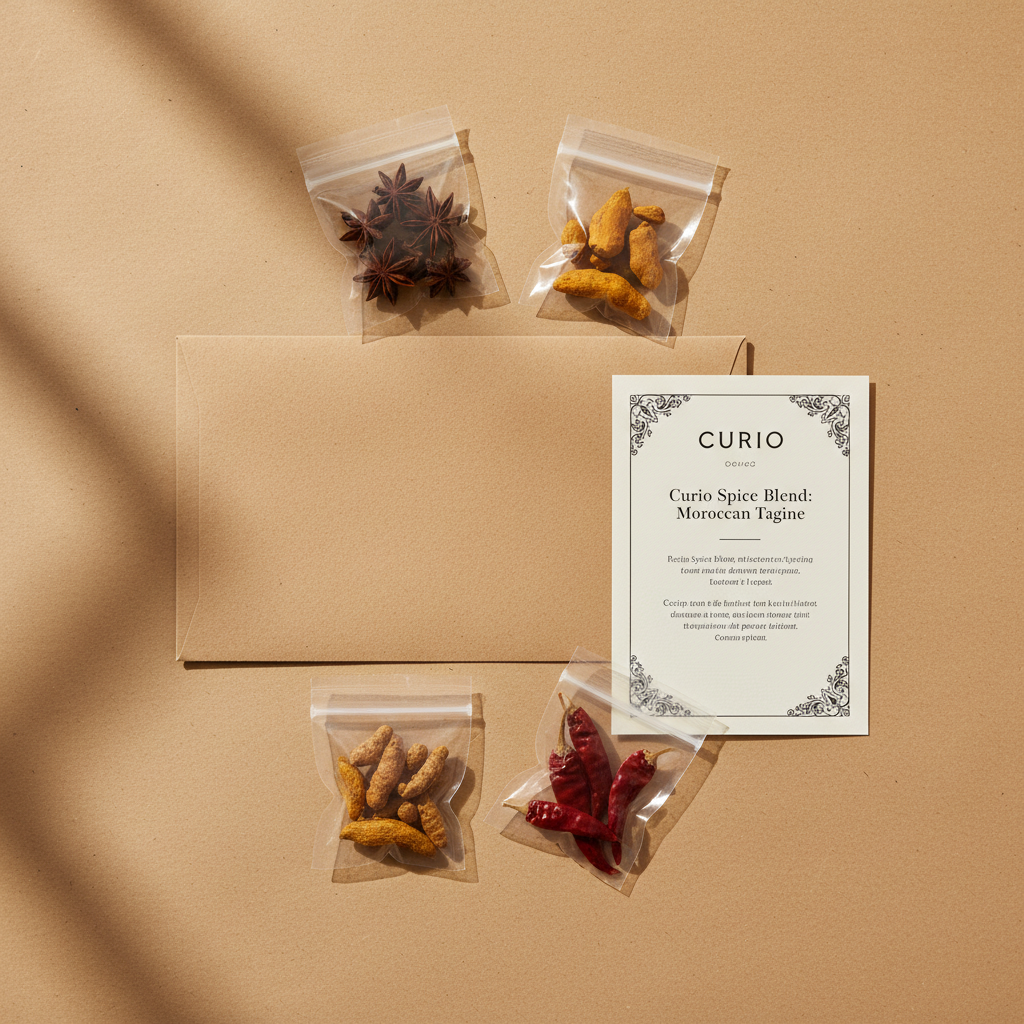
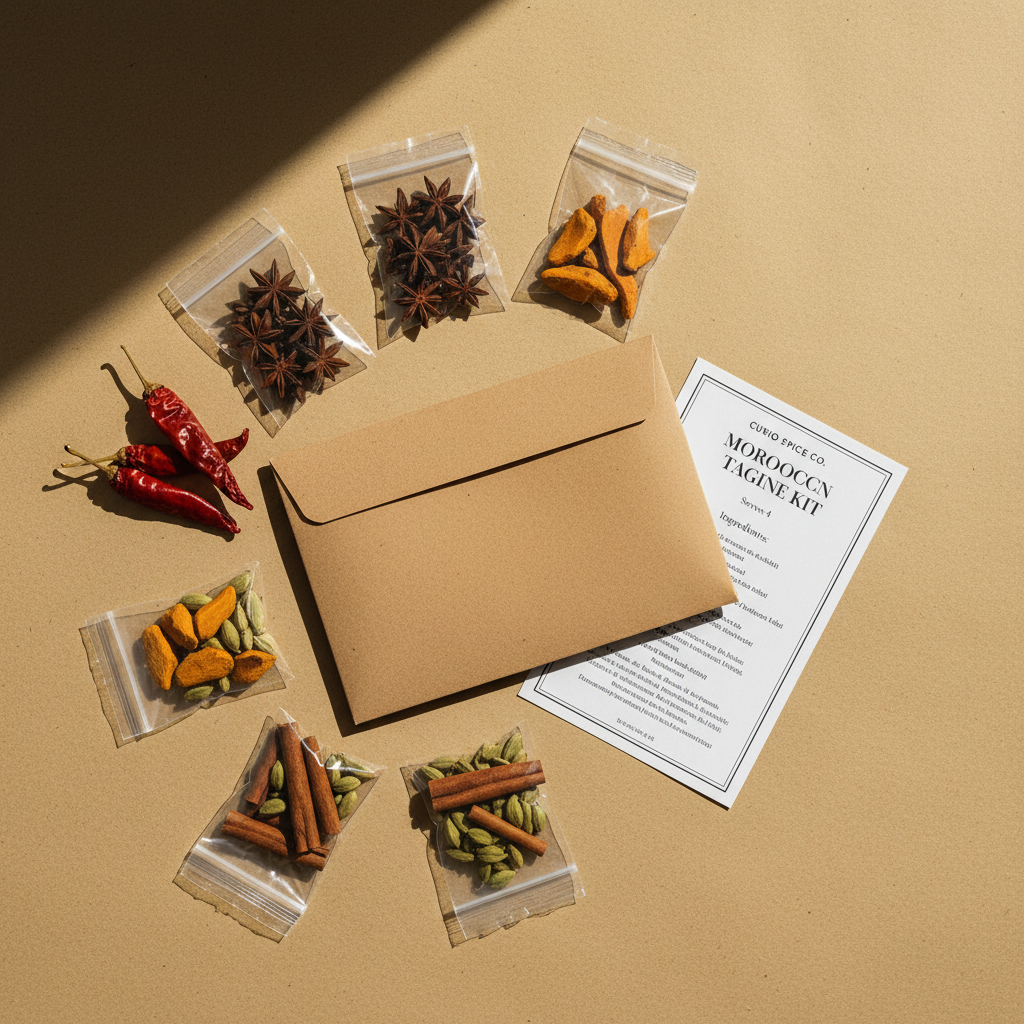
feat: website generated by baget.ai

diff --git a/provision-db.js b/provision-db.js
@@ -1,0 +1,38 @@
+import { create_database } from './tools';
+
+async function setup() {
+  const waitlist = await create_database({
+    name: "Curio Waitlist",
+    columns: [
+      { name: "email", type: "text" },
+      { name: "source", type: "text" },
+      { name: "timestamp", type: "text" }
+    ],
+    publicWrites: true
+  });
+  console.log("Waitlist DB:", waitlist.id);
+
+  const suppliers = await create_database({
+    name: "Curio Suppliers",
+    columns: [
+      { name: "Name", type: "text" },
+      { name: "Region", type: "text" },
+      { name: "Specialty", type: "text" },
+      { name: "MOQ", type: "text" },
+      { name: "Unit_Cost", type: "text" }
+    ]
+  });
+  console.log("Suppliers DB:", suppliers.id);
+
+  const influencers = await create_database({
+    name: "Curio Influencer Outreach",
+    columns: [
+      { name: "Handle", type: "text" },
+      { name: "Platform", type: "text" },
+      { name: "Niche", type: "text" },
+      { name: "Follower_Count", type: "text" },
+      { name: "Status", type: "text" }
+    ]
+  });
+  console.log("Influencers DB:", influencers.id);
+}

diff --git a/next.config.js b/next.config.js
@@ -1,6 +1,6 @@
 /** @type {import('next').NextConfig} */
 const nextConfig = {
-  output: 'export',
+  reactStrictMode: true,
   images: {
     unoptimized: true,
   },